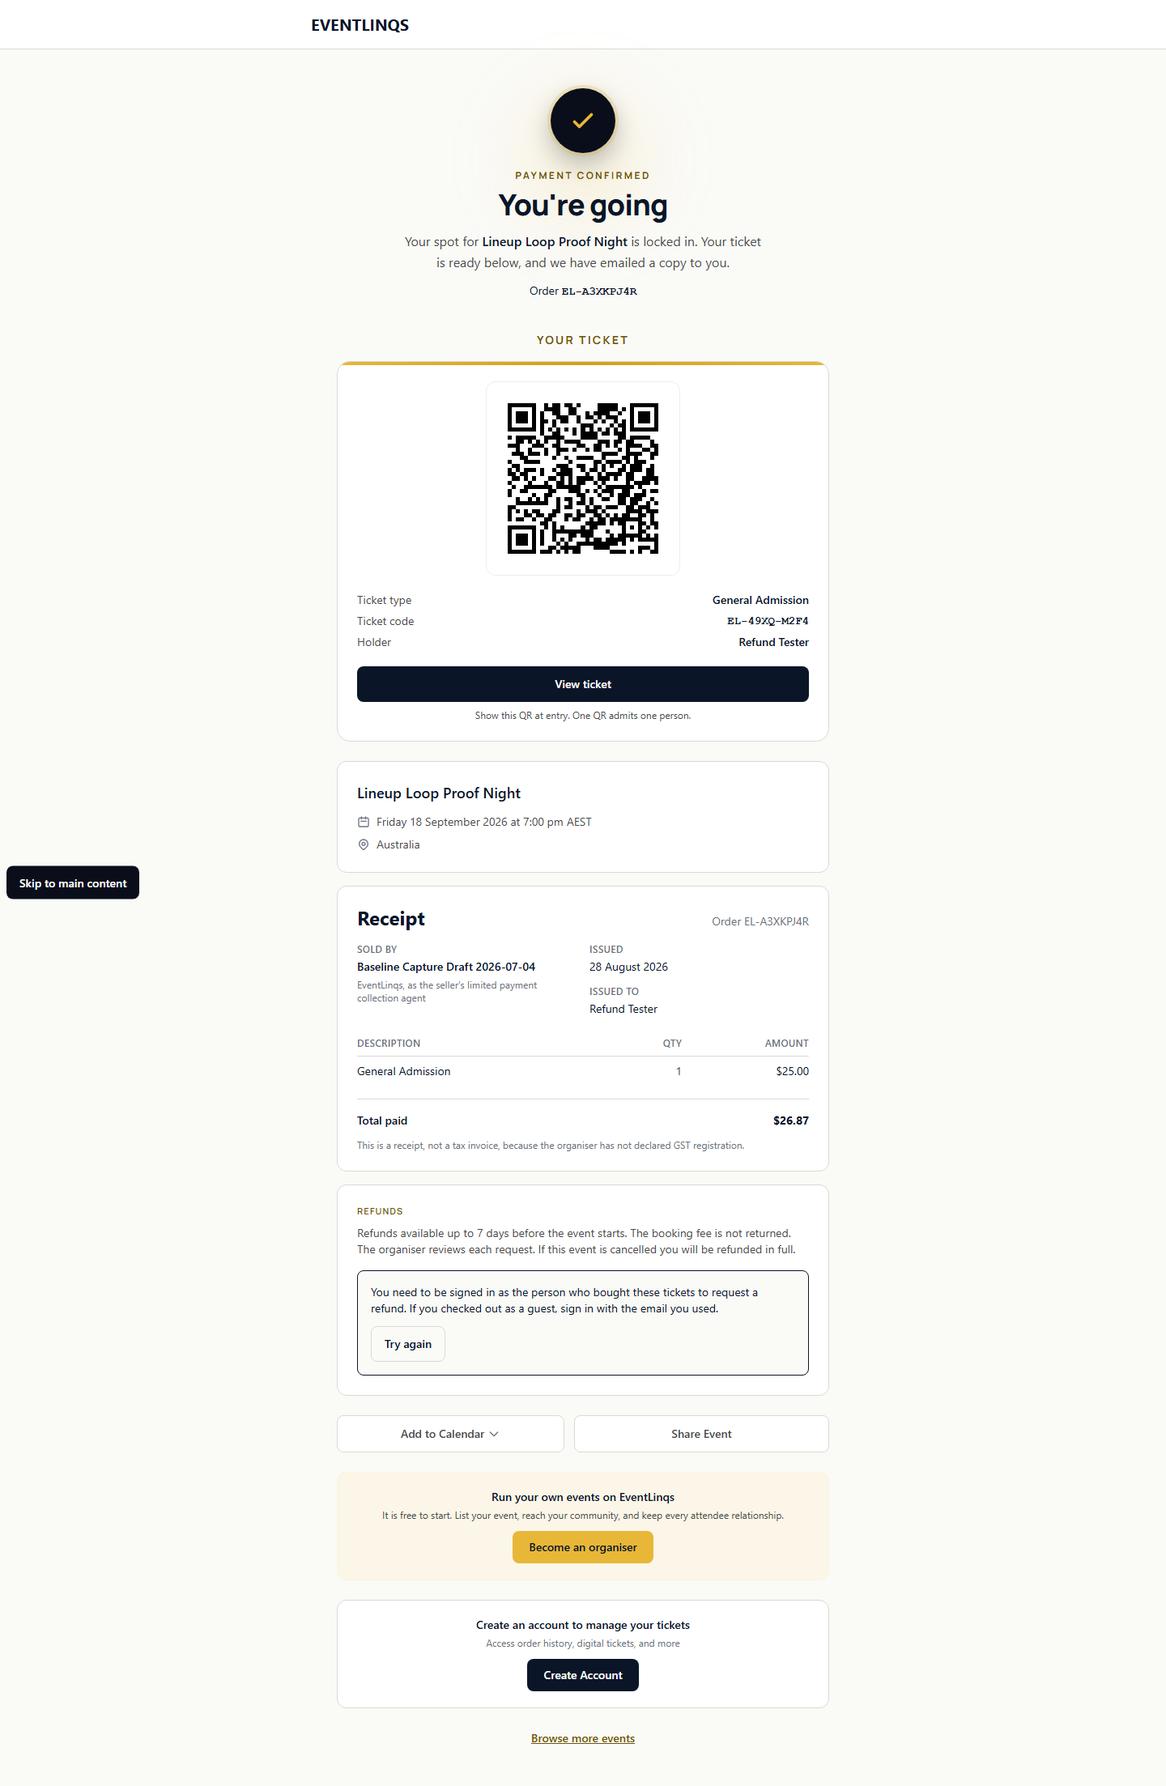
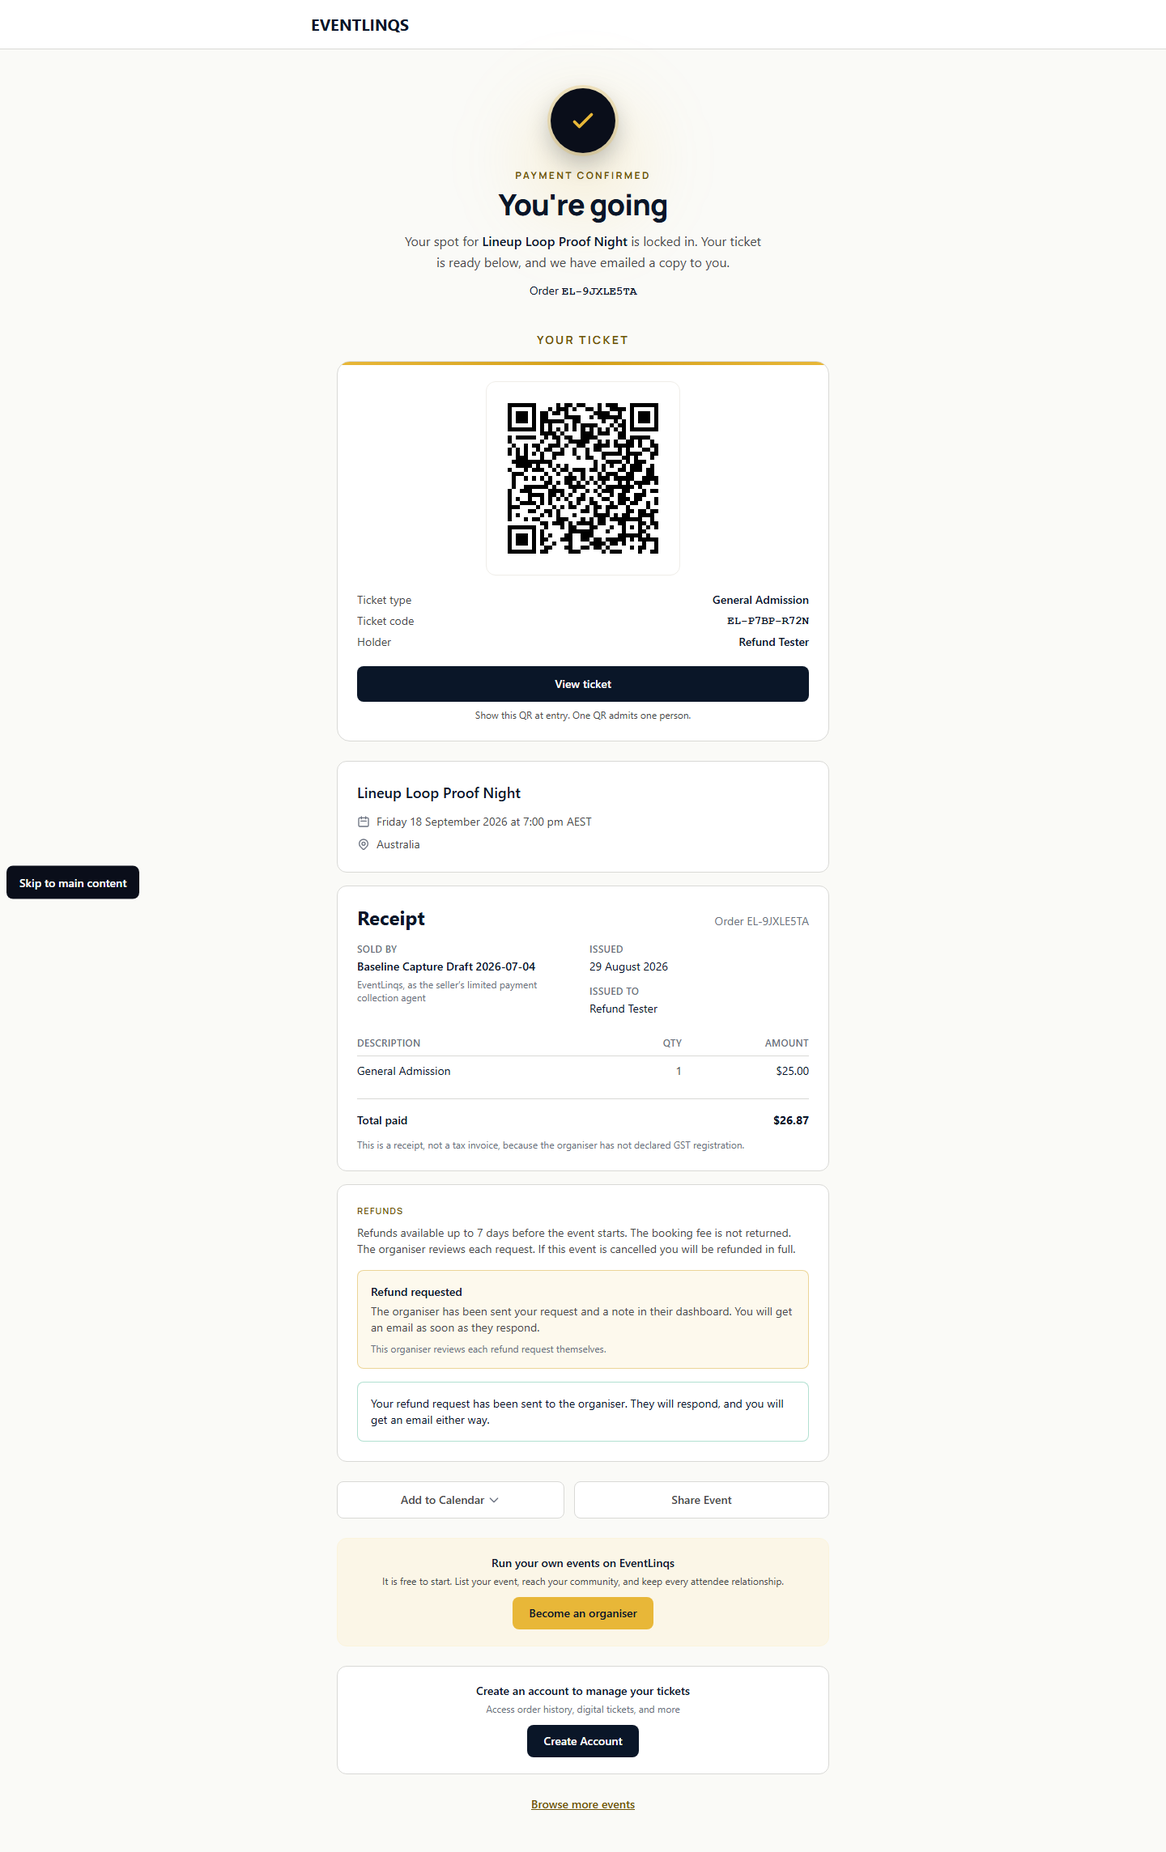
The guest's key to their own order: a signed link, and the refund button now works
FOUNDER RULING, 29 August: a magic link. Not forced account creation, not hiding
the controls.

RESEARCHED FIRST, and one finding contradicts the premise, so it is recorded
rather than smoothed over (Law 7):

  HUMANITIX does exactly what was ruled. No account is required and the
  confirmation email IS the key: "You can always access your digital tickets
  through your confirmation email", with a view-tickets button and a self-serve
  "I can't find my tickets" form that re-sends to the purchase address.
  https://help.humanitix.com/en/articles/8924058-how-do-i-access-my-digital-ticket
  https://help.humanitix.com/en/articles/10068288-resend-an-order-confirmation-email-and-tickets

  EVENTBRITE does the OPPOSITE of the ruling: "When you order tickets on
  Eventbrite, an account is created using the email address you enter during
  checkout", plus a Find my tickets lookup for people without the email.
  https://www.eventbrite.com/help/en-us/articles/319355/where-are-my-tickets/

  NEITHER publishes a link lifetime or what the link exposes. Both UNSOURCED, so
  the two choices below are ours and are argued in the module.

WHAT WAS BUILT. An HMAC token scoped to ONE order, derived from the order id, so
there is no column, no migration for the founder to apply, and nothing to leak
from a table. Rotating the secret revokes every outstanding link at once.

  SCOPE: one order, and exactly the three things the ruling listed.
[…]

diff --git a/src/lib/orders/order-access.ts b/src/lib/orders/order-access.ts
@@ -1,0 +1,114 @@
+import crypto from 'crypto'
+
+/**
+ * THE GUEST'S KEY TO THEIR OWN ORDER.
+ *
+ * A buyer who checks out as a guest has no account, so every surface that asks
+ * "are you the person who bought this" answered no. They could see the
+ * confirmation page at its URL and nothing else: no ticket list, no transfer,
+ * and a "Request a refund" button that opened a form, took a reason, and then
+ * told them to sign in as the purchaser. Guest checkout creates no account, so
+ * that instruction was impossible. Journeys 4 and 5, 28 August 2026.
+ *
+ * FOUNDER RULING, 29 August 2026: a magic link. Not forced account creation,
+ * which costs conversion at the worst possible moment, and not hiding the
+ * controls, which strands a buyer holding a ticket they cannot manage.
+ *
+ * WHAT THE MARKET ACTUALLY DOES, checked rather than assumed (Law 7):
+ *
+ *   HUMANITIX does exactly this. No account is required and the confirmation
+ *   email IS the key: "You can always access your digital tickets through your
+ *   confirmation email", with a view-tickets button, plus a self-serve "I can't
+ *   find my tickets" form that RE-SENDS to the purchase address.
+ *   https://help.humanitix.com/en/articles/8924058-how-do-i-access-my-digital-ticket
+ *   https://help.humanitix.com/en/articles/10068288-resend-an-order-confirmation-email-and-tickets
+ *
+ *   EVENTBRITE does the opposite of the ruling: "When you order tickets on
+ *   Eventbrite, an account is created using the email address you enter during
+ *   checkout", with a Find my tickets lookup for people without the email.
+ *   https://www.eventbrite.com/help/en-us/articles/319355/where-are-my-tickets/
+ *
+ *   NEITHER publishes a link lifetime or what the link exposes. Both remain
+ *   UNSOURCED, so the choices below are ours and are argued rather than copied.
+ *
+ * THE CHOICES, and why.
+ *
+ *   SCOPE: one order. The token names the order it was minted for and is
+ *   verified against that order, so a token for order A cannot open order B.
+ *   It grants exactly what the founder listed: view the tickets, transfer, and
+ *   request a refund. Nothing else, and never anything organiser-side.
+ *
+ *   LIFETIME: none. This is deliberate and it is the same trust level the email
+ *   already carries, because that email also contains the ticket QR codes, which
+ *   ARE bearer credentials that must work at the door weeks later. An expiring
+ *   manage-link on a non-expiring ticket email would lock a buyer out of the
+ *   refund path precisely when they need it, while leaving the actually valuable
+ *   thing, the ticket, still usable. Humanitix reaches the same conclusion by
+ *   making the email itself the permanent key.
+ *
+ *   STATELESS: derived by HMAC from the order id, so there is no column to add,
+ *   no migration for the founder to apply, and nothing to leak from a table. It
+ *   is revocable in the only way that matters at this scale, by rotating the
+ *   secret, which invalidates every outstanding link at once.
+ *
+ * FAIL CLOSED, following src/lib/queue/tokens.ts. Without a secret in
+ * production this refuses to mint AND refuses to honour, so a deployment that
+ * forgot the variable cannot fall back to a public constant that would let
+ * anyone open any order by guessing an id.
+ */
+
+/**
+ * Dev-only signing secret. It lives in the repository, so it must never be
+ * reachable in production: with it, anyone could mint a token for any order id
+ * and read that buyer's tickets.
+ */
+const DEV_FALLBACK_SECRET = 'dev-order-access-secret-change-in-prod'
+
+/** Bound into the MAC so a secret shared with another feature cannot cross over. */
+const PURPOSE = 'order-access-v1'
+
+function resolveSecret(): string | null {
+  const fromEnv = process.env.ORDER_ACCESS_SECRET
+  if (fromEnv && fromEnv.trim().length > 0) return fromEnv
+  if (process.env.NODE_ENV === 'production') return null
+  return DEV_FALLBACK_SECRET
+}
+
+/** Whether this deployment can issue and honour guest order links at all. */
+export function orderAccessConfigured(): boolean {
+  return resolveSecret() !== null
+}
+
+/**
+ * The token for one order. Returns null when the deployment has no secret, so
+ * callers omit the link rather than emailing one that will never verify.
+ */
+export function mintOrderAccessToken(orderId: string): string | null {
+  const secret = resolveSecret()
+  if (!secret) return null
+  return crypto.createHmac('sha256', secret).update(`${PURPOSE}:${orderId}`).digest('hex').slice(0, 40)
+}
+
+/**
+ * Constant-time check that this token was minted for this order.
+ *
+ * Compared with timingSafeEqual on equal-length buffers: a plain === leaks the
+ * length of the matching prefix, which is enough to recover a token one byte at
+ * a time given enough attempts.
+ */
+export function verifyOrderAccessToken(orderId: string, token: string | null | undefined): boolean {
+  if (!token) return false
+  const expected = mintOrderAccessToken(orderId)
+  if (!expected) return false
+  const a = Buffer.from(expected)
+  const b = Buffer.from(token)
+  if (a.length !== b.length) return false
+  return crypto.timingSafeEqual(a, b)
+}
+
+/** The link a buyer follows from their confirmation email. */
+export function orderAccessUrl(siteUrl: string, orderId: string): string | null {
+  const token = mintOrderAccessToken(orderId)
+  if (!token) return null
+  return `${siteUrl.replace(/\/$/, '')}/orders/${orderId}/confirmation?t=${token}`
+}

diff --git a/tests/unit/orders/order-access.test.ts b/tests/unit/orders/order-access.test.ts
@@ -1,0 +1,122 @@
+import { describe, expect, test, afterEach, vi } from 'vitest'
+import {
+  mintOrderAccessToken,
+  verifyOrderAccessToken,
+  orderAccessUrl,
+  orderAccessConfigured,
+} from '@/lib/orders/order-access'
+
+/**
+ * THE GUEST'S KEY TO THEIR OWN ORDER.
+ *
+ * A buyer who checks out as a guest has no account, so before 29 August 2026
+ * every ownership check answered no: they were offered a "Request a refund"
+ * button, allowed to write a reason, and then told to sign in as the purchaser.
+ * Guest checkout creates no account, so that was impossible. Journey 4.
+ *
+ * This token is now the only thing standing between a stranger and somebody
+ * else's order, so the properties below are the ones that matter. Each is here
+ * because getting it wrong has a name:
+ *
+ *   scoped      a token for order A must not open order B, or one leaked link
+ *               becomes a key to the whole table
+ *   fail closed with no secret in production it must refuse to mint AND refuse
+ *               to honour, never fall back to the public dev constant
+ *   opaque      not derivable without the secret
+ */
+
+const ORDER_A = '11111111-1111-4111-8111-111111111111'
+const ORDER_B = '22222222-2222-4222-8222-222222222222'
+
+/*
+ * vi.stubEnv rather than assigning process.env directly: Node refuses a bare
+ * defineProperty on process.env ("only accepts a configurable, writable, and
+ * enumerable data descriptor"), and NODE_ENV has to move for the fail-closed
+ * tests to mean anything.
+ */
+afterEach(() => {
+  vi.unstubAllEnvs()
+})
+
+function setEnv(secret: string | undefined, nodeEnv: string) {
+  vi.stubEnv('NODE_ENV', nodeEnv)
+  if (secret === undefined) vi.stubEnv('ORDER_ACCESS_SECRET', '')
+  else vi.stubEnv('ORDER_ACCESS_SECRET', secret)
+}
+
+describe('the token opens exactly one order', () => {
+  test('verifies for the order it was minted for', () => {
+    setEnv('a-secret-long-enough-for-the-shape-check', 'production')
+    const token = mintOrderAccessToken(ORDER_A)
+    expect(token).toBeTruthy()
+    expect(verifyOrderAccessToken(ORDER_A, token)).toBe(true)
+  })
+
+  test('does NOT open a different order', () => {
+    setEnv('a-secret-long-enough-for-the-shape-check', 'production')
+    const token = mintOrderAccessToken(ORDER_A)
+    expect(
+      verifyOrderAccessToken(ORDER_B, token),
+      'a token minted for one order opened another: one leaked link would be a key to every order',
+    ).toBe(false)
+  })
+
+  test('a different secret produces a different token', () => {
+    setEnv('secret-number-one-long-enough-for-shape', 'production')
+    const first = mintOrderAccessToken(ORDER_A)
+    setEnv('secret-number-two-long-enough-for-shape', 'production')
+    const second = mintOrderAccessToken(ORDER_A)
+    expect(first).not.toBe(second)
+    // Rotating the secret is the revocation mechanism, so the old link must die.
+    expect(verifyOrderAccessToken(ORDER_A, first)).toBe(false)
+  })
+
+  test('rejects rubbish without throwing', () => {
+    setEnv('a-secret-long-enough-for-the-shape-check', 'production')
+    for (const bad of ['', 'x', 'z'.repeat(40), 'null', undefined, null]) {
+      expect(verifyOrderAccessToken(ORDER_A, bad as string | null | undefined)).toBe(false)
+    }
+  })
+})
+
+describe('with no secret in production it fails closed', () => {
+  test('refuses to mint', () => {
+    setEnv(undefined, 'production')
+    expect(orderAccessConfigured()).toBe(false)
+    expect(mintOrderAccessToken(ORDER_A)).toBeNull()
+    expect(orderAccessUrl('https://x.test', ORDER_A)).toBeNull()
+  })
+
+  test('refuses to HONOUR a token minted elsewhere', () => {
+    // The dangerous case: a token minted where the dev fallback WAS reachable,
+    // presented to a production deployment that has no secret. If the fallback
+    // were reachable there, anyone could mint a key to any order.
+    setEnv(undefined, 'development')
+    const devToken = mintOrderAccessToken(ORDER_A)
+    expect(devToken).toBeTruthy()
+    setEnv(undefined, 'production')
+    expect(
+      verifyOrderAccessToken(ORDER_A, devToken),
+      'production honoured a token signed with the PUBLIC dev constant',
+    ).toBe(false)
+  })
+
+  test('outside production the dev fallback keeps local runs working', () => {
+    setEnv(undefined, 'development')
+    expect(orderAccessConfigured()).toBe(true)
+    const token = mintOrderAccessToken(ORDER_A)
+    expect(verifyOrderAccessToken(ORDER_A, token)).toBe(true)
+  })
+})
+
+describe('the link a buyer follows', () => {
+  test('points at their order and carries the token', () => {
+    setEnv('a-secret-long-enough-for-the-shape-check', 'production')
+    const url = orderAccessUrl('https://www.eventlinqs.com.au/', ORDER_A)
+    expect(url).toContain(`/orders/${ORDER_A}/confirmation?t=`)
+    // No double slash from a trailing-slash site URL.
+    expect(url).not.toContain('.au//orders')
+    const token = new URL(url as string).searchParams.get('t')
+    expect(verifyOrderAccessToken(ORDER_A, token)).toBe(true)
+  })
+})

diff --git a/src/lib/email/order-confirmation.ts b/src/lib/email/order-confirmation.ts
@@ -3,6 +3,7 @@ import { createAdminClient } from '@/lib/supabase/admin'
 import { Resend } from 'resend'
 import QRCode from 'qrcode'
 import { getSiteUrl } from '@/lib/site-url'
+import { orderAccessUrl } from '@/lib/orders/order-access'
 import { describeRefundPolicy, policyFromEvent } from '@/lib/refunds/policy'
 import { getNoReplyFrom, getReplyToAddress } from '@/lib/email/sender'
 import { formatMoney } from '@/lib/money/format'
@@ -230,6 +231,13 @@ export function buildConfirmationEmailHtml(
   firstName: string | null
 ): string {
   const siteUrl = getSiteUrl()
+  /*
+   * THE SIGNED ORDER LINK. This is the only identity a guest buyer has: without
+   * it they can read the confirmation page and nothing else, and the refund
+   * button on it refuses them. Falls back to the plain URL when the deployment
+   * has no ORDER_ACCESS_SECRET, so the email is never broken, only less useful.
+   */
+  const orderUrl = orderAccessUrl(siteUrl, order.id) ?? `${siteUrl}/orders/${order.id}/confirmation`
   const total = formatMoney(order.total_cents, order.currency)
   const eventDateLong = formatEventDateLong(event)
   const eventDateShort = formatEventDateShort(event)
@@ -346,7 +354,7 @@ export function buildConfirmationEmailHtml(
 
   <p style="margin:0 0 4px;color:#9CA3AF;font-size:12px;">The EventLinqs team. The ticketing platform built for every community.</p>
   <p style="margin:0 0 4px;color:#6B7280;font-size:13px;"><strong style="color:#0A1628;">Refunds:</strong> ${escapeHtml(describeRefundPolicy(policyFromEvent(event), event.is_free ?? false))}</p>
-  <p style="margin:0 0 4px;color:#9CA3AF;font-size:12px;">Your tax invoice or receipt, and the refund controls, are on <a href="${siteUrl}/orders/${order.id}/confirmation" style="color:#9CA3AF;">your order page</a>. Platform terms: <a href="${siteUrl}/legal/refunds" style="color:#9CA3AF;">${canonicalHost()}/legal/refunds</a></p>
+  <p style="margin:0 0 4px;color:#9CA3AF;font-size:12px;">Your tax invoice or receipt, and the refund controls, are on <a href="${orderUrl}" style="color:#9CA3AF;">your order page</a>. Platform terms: <a href="${siteUrl}/legal/refunds" style="color:#9CA3AF;">${canonicalHost()}/legal/refunds</a></p>
   <p style="margin:0 0 4px;color:#9CA3AF;font-size:12px;">EventLinqs (Lawal Adams), ABN 30 837 447 587, Geelong VIC, Australia.</p>
   <p style="margin:0;color:#9CA3AF;font-size:12px;">You received this because you bought tickets on EventLinqs.</p>
 
@@ -363,6 +371,13 @@ export function buildConfirmationEmailText(
   firstName: string | null
 ): string {
   const siteUrl = getSiteUrl()
+  /*
+   * THE SIGNED ORDER LINK. This is the only identity a guest buyer has: without
+   * it they can read the confirmation page and nothing else, and the refund
+   * button on it refuses them. Falls back to the plain URL when the deployment
+   * has no ORDER_ACCESS_SECRET, so the email is never broken, only less useful.
+   */
+  const orderUrl = orderAccessUrl(siteUrl, order.id) ?? `${siteUrl}/orders/${order.id}/confirmation`
   const rule = '='.repeat(60)
   const greeting = firstName
     ? `You are going to ${event.title}, ${firstName}.`
@@ -434,7 +449,7 @@ export function buildConfirmationEmailText(
    * does rather than growing a second, weaker copy of it, which is the exact
    * shape this pass spent the day removing everywhere else.
    */
-  lines.push(`Your tax invoice or receipt, and the refund controls: ${siteUrl}/orders/${order.id}/confirmation`)
+  lines.push(`Your tax invoice or receipt, and the refund controls: ${orderUrl}`)
   lines.push(`Platform terms: ${siteUrl}/legal/refunds`)
   lines.push('EventLinqs (Lawal Adams), ABN 30 837 447 587, Geelong VIC, Australia.')
   lines.push('You received this because you bought tickets on EventLinqs.')

diff --git a/src/app/orders/[order_id]/confirmation/refund-actions.ts b/src/app/orders/[order_id]/confirmation/refund-actions.ts
@@ -5,6 +5,7 @@ import { revalidatePath } from 'next/cache'
 import { createClient } from '@/lib/supabase/server'
 import { createAdminClient } from '@/lib/supabase/admin'
 import { actionRateLimit } from '@/lib/rate-limit/action'
+import { verifyOrderAccessToken } from '@/lib/orders/order-access'
 import { createRefundRequest } from '@/lib/refunds/request-service'
 import { sendRefundRequestedToOrganiser, sendRefundDecisionToBuyer } from '@/lib/refunds/notify'
 import { captureException } from '@/lib/observability/sentry'
@@ -32,6 +33,8 @@ export async function submitBuyerRefundRequest(input: {
   orderId: string
   ticketIds: string[]
   message?: string | null
+  /** The signed link from the confirmation email. A guest has no other identity. */
+  accessToken?: string | null
 }): Promise<SubmitBuyerRefundResult> {
   const parsed = Schema.safeParse(input)
   if (!parsed.success) {
@@ -68,13 +71,26 @@ export async function submitBuyerRefundRequest(input: {
     .maybeSingle()
   if (!order) return { ok: false, message: 'We could not find that order.' }
 
-  const isOwner = user
-    ? order.user_id === user.id || (order.guest_email && order.guest_email === user.email)
-    : false
+  /*
+   * THREE WAYS TO BE THE OWNER, and the third is the one that was missing.
+   *
+   * A guest has no account, so the first two can never be true for them. Until
+   * 29 August the refusal below told a guest to "sign in with the email you
+   * used", which is impossible: guest checkout creates no account. The button
+   * was offered, the form took a reason, and the press could never succeed.
+   *
+   * The signed link from their own confirmation email IS their identity. It is
+   * scoped to this order and verified in constant time; see
+   * src/lib/orders/order-access.ts for why it carries no expiry.
+   */
+  const viaLink = verifyOrderAccessToken(parsed.data.orderId, input.accessToken ?? null)
+  const isOwner =
+    viaLink || (user ? order.user_id === user.id || (order.guest_email && order.guest_email === user.email) : false)
   if (!isOwner) {
     return {
       ok: false,
-      message: 'You need to be signed in as the person who bought these tickets to request a refund. If you checked out as a guest, sign in with the email you used.',
+      message:
+        'We could not tell that this order is yours. Open the link in your confirmation email, which signs you in to this order, or sign in with the email you bought with.',
     }
   }
 

diff --git a/src/app/orders/[order_id]/confirmation/page.tsx b/src/app/orders/[order_id]/confirmation/page.tsx
@@ -21,7 +21,7 @@ export const runtime = 'nodejs'
 
 type Props = {
   params: Promise<{ order_id: string }>
-  searchParams: Promise<{ payment_intent?: string; redirect_status?: string }>
+  searchParams: Promise<{ payment_intent?: string; redirect_status?: string; t?: string }>
 }
 
 type FullOrder = Order & { order_items: OrderItem[] }
@@ -49,7 +49,12 @@ type IssuedTicket = {
 
 export default async function OrderConfirmationPage({ params, searchParams }: Props) {
   const { order_id } = await params
-  const { redirect_status } = await searchParams
+  /*
+   * `t` is the signed link from the confirmation email. It is the ONLY identity
+   * a guest buyer has, so it is read here and handed to the controls that act on
+   * this order. See src/lib/orders/order-access.ts.
+   */
+  const { redirect_status, t: accessToken } = await searchParams
 
   const supabase = await createClient()
   // Admin client - order may belong to a guest (user_id null) or a different user (organiser view),
@@ -461,6 +466,7 @@ export default async function OrderConfirmationPage({ params, searchParams }: Pr
         {refundState && (
           <BuyerRefundPanel
             orderId={fullOrder.id}
+            accessToken={accessToken ?? null}
             canRequest={refundState.eligibility.canRequest}
             reason={refundState.eligibility.reason}
             policyMessage={refundState.eligibility.message}

diff --git a/src/app/orders/[order_id]/confirmation/refund-panel.tsx b/src/app/orders/[order_id]/confirmation/refund-panel.tsx
@@ -33,6 +33,8 @@ type RequestState = {
 
 interface Props {
   orderId: string
+  /** The signed link from the confirmation email; a guest has no other identity. */
+  accessToken?: string | null
   canRequest: boolean
   reason: string
   policyMessage: string
@@ -79,7 +81,7 @@ const STATE_COPY: Record<string, { title: string; tone: string; body: (r: NonNul
 }
 
 export function BuyerRefundPanel({
-  orderId, canRequest, reason: _reason, policyMessage, policyDescription, liveTicketIds, latestRequest,
+  orderId, accessToken, canRequest, reason: _reason, policyMessage, policyDescription, liveTicketIds, latestRequest,
 }: Props) {
   const [open, setOpen] = useState(false)
   const [message, setMessage] = useState('')
@@ -145,6 +147,7 @@ export function BuyerRefundPanel({
                 startTransition(async () => {
                   const r = await submitBuyerRefundRequest({
                     orderId,
+                    accessToken,
                     ticketIds: liveTicketIds,
                     message: message.trim() || null,
                   })
